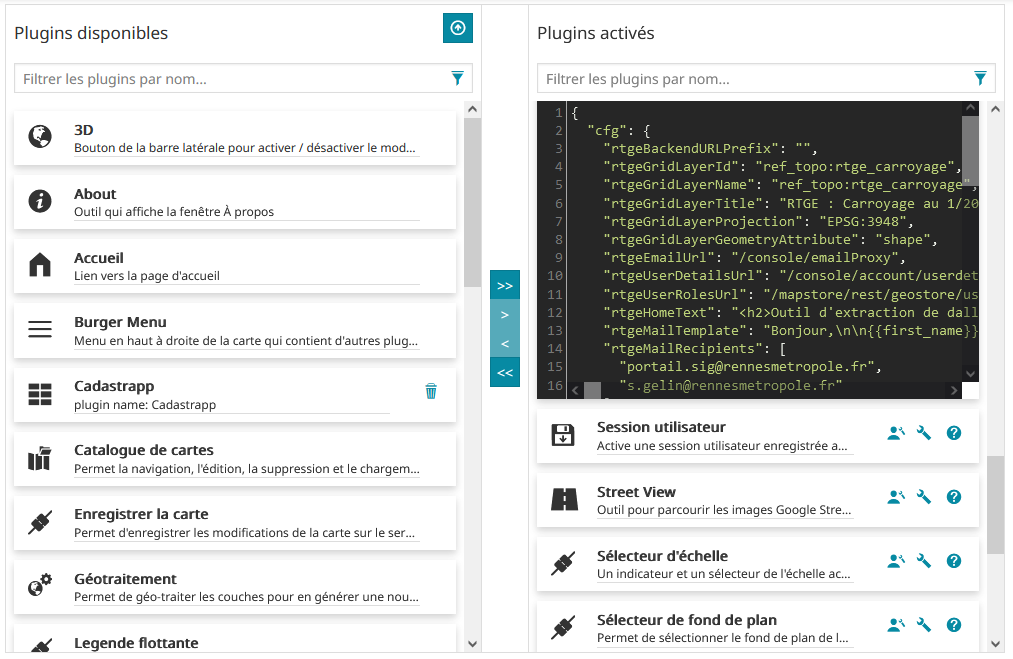
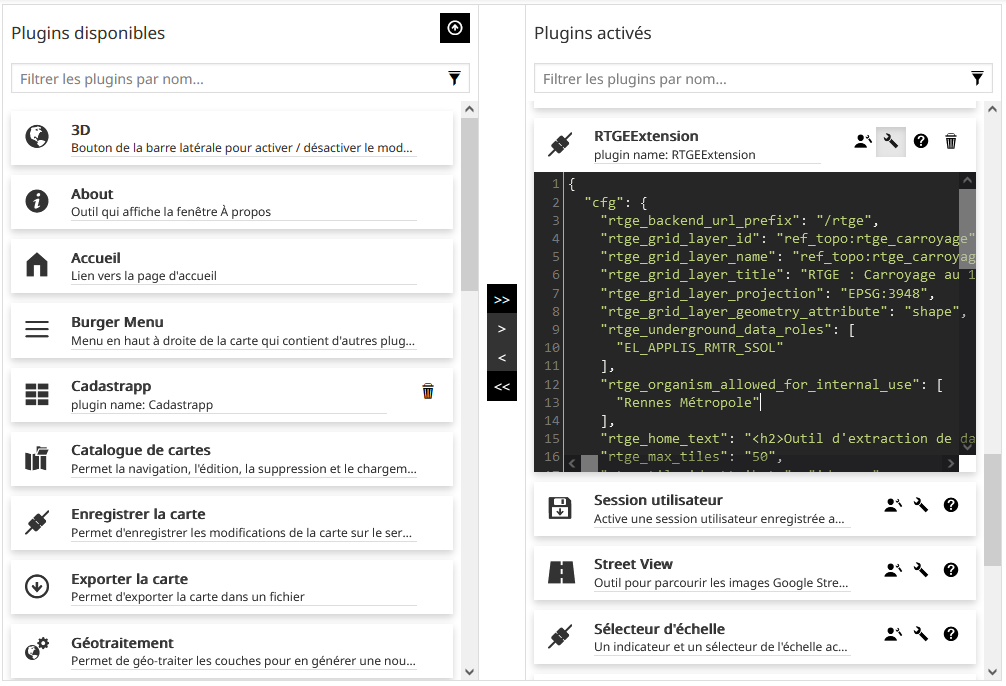
resolution pb style spinner + update doc

diff --git a/assets/style.css b/assets/style.css
@@ -195,10 +195,8 @@ button.RTGE_active{
 /* ==== Array selectedTiles ==== */
 
 .RTGE_selectTitle{
-    /* font-weight: bold; */
     border-bottom: 1px solid #ddd;
     background: darkgray;
-    /* height: 40px; */
     font-size: small;
     color: white;
 }
@@ -251,10 +249,6 @@ button.RTGE_active{
     margin-left: 0px!important;
     margin-top: 10px;
 }
-
-/* .RTGE_RowsOffset{
-    padding-right: 1px;
-} */
 
 /* ==== Form Area ==== */
 
@@ -310,17 +304,6 @@ button.RTGE_active{
     margin-top: -5px!important;
 }
 
-.RTGE_errorZone {
-    background-color: red;
-    display: grid;
-    align-items: center;
-    text-align: center;
-    height: 50px;
-    color: white;
-    font-weight: bold;
-    border-radius: 5px;
-}
-
 .RTGE_inputGroupStyles {
     display:flex!important;
     align-items: center;
@@ -333,6 +316,10 @@ button.RTGE_active{
 
 .RTGE_inputGroupStyles .RTGE_PhoneInput {
     margin-left: 10px;
+}
+
+.RTGE_inputGroupStyles .form-control[readOnly]{
+    background-color: #f6f6f6 !important
 }
 
 .RTGE_form-group {
@@ -388,20 +375,6 @@ button.active .iconSize{
 
 /* ==== Loading Bar ==== */
 
-.plui-evolution-panel .plui-loading-container {
-	width: 100%;
-	height: 100%;
-	overflow: visible;
-	margin: auto;
-	position: absolute;
-	display: block;
-	vertical-align: center;
-	left: 0;
-	top: 0;
-	background: rgba(0, 0, 0, .60);
-	z-index: 999;
-}
-
 .RTGE_loadingContainer .RTGE_loading {
 	position: absolute;
 	top: 50%;
@@ -416,11 +389,7 @@ button.active .iconSize{
 	margin: auto;
 	height: 300px;
 	width: 300px;
-	border: 15px;
-	/*border-top-color: rgba(7, 138, 163, 0.2) !important;
-	border-right-color: rgba(7, 138, 163, 0.2) !important;
-	border-bottom-color: rgba(7, 138, 163, 0.2) !important;
-	border-left-color: #078aa3 !important;*/
+	border-width: 15px;
 }
 
 .RTGE_loadingContainer .RTGE_loading span {

diff --git a/api/api.js b/api/api.js
@@ -19,7 +19,6 @@ export function getHealth(){
 export function getUserInfos(){
     var slug = `${rtgeAPIURL}` + "/headerinfos";
     return axios.get(slug).then(function (response) {
-        //TEST response.data.collectivite = null;
         return response;
     })
     .catch(function (error) {

diff --git a/actions/rtge-action.js b/actions/rtge-action.js
@@ -277,7 +277,7 @@ export function rtgeMailSent() {
 }
 
 /**
- * rtgeMailNotSent actions to tell mail has been sent, stop the spinner
+ * rtgeMailNotSent actions to tell mail has not been sentyet, and kepps spinner active
  * @memberof rtge.actions
  * @returns - action mail sent
  */
